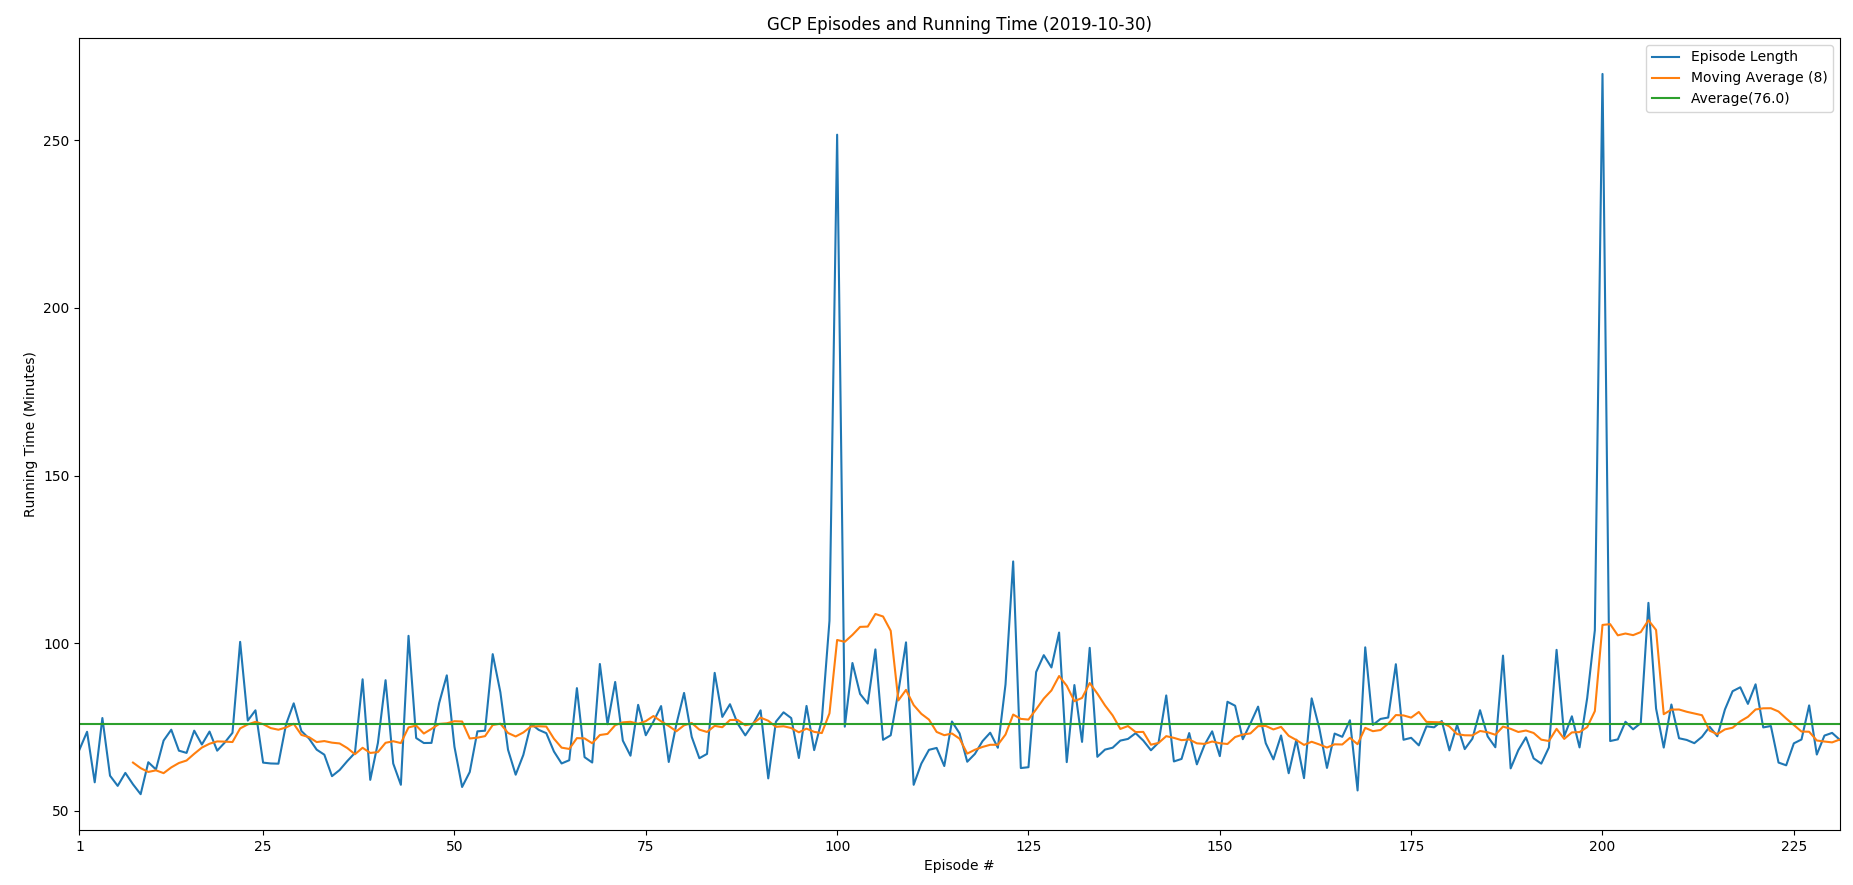
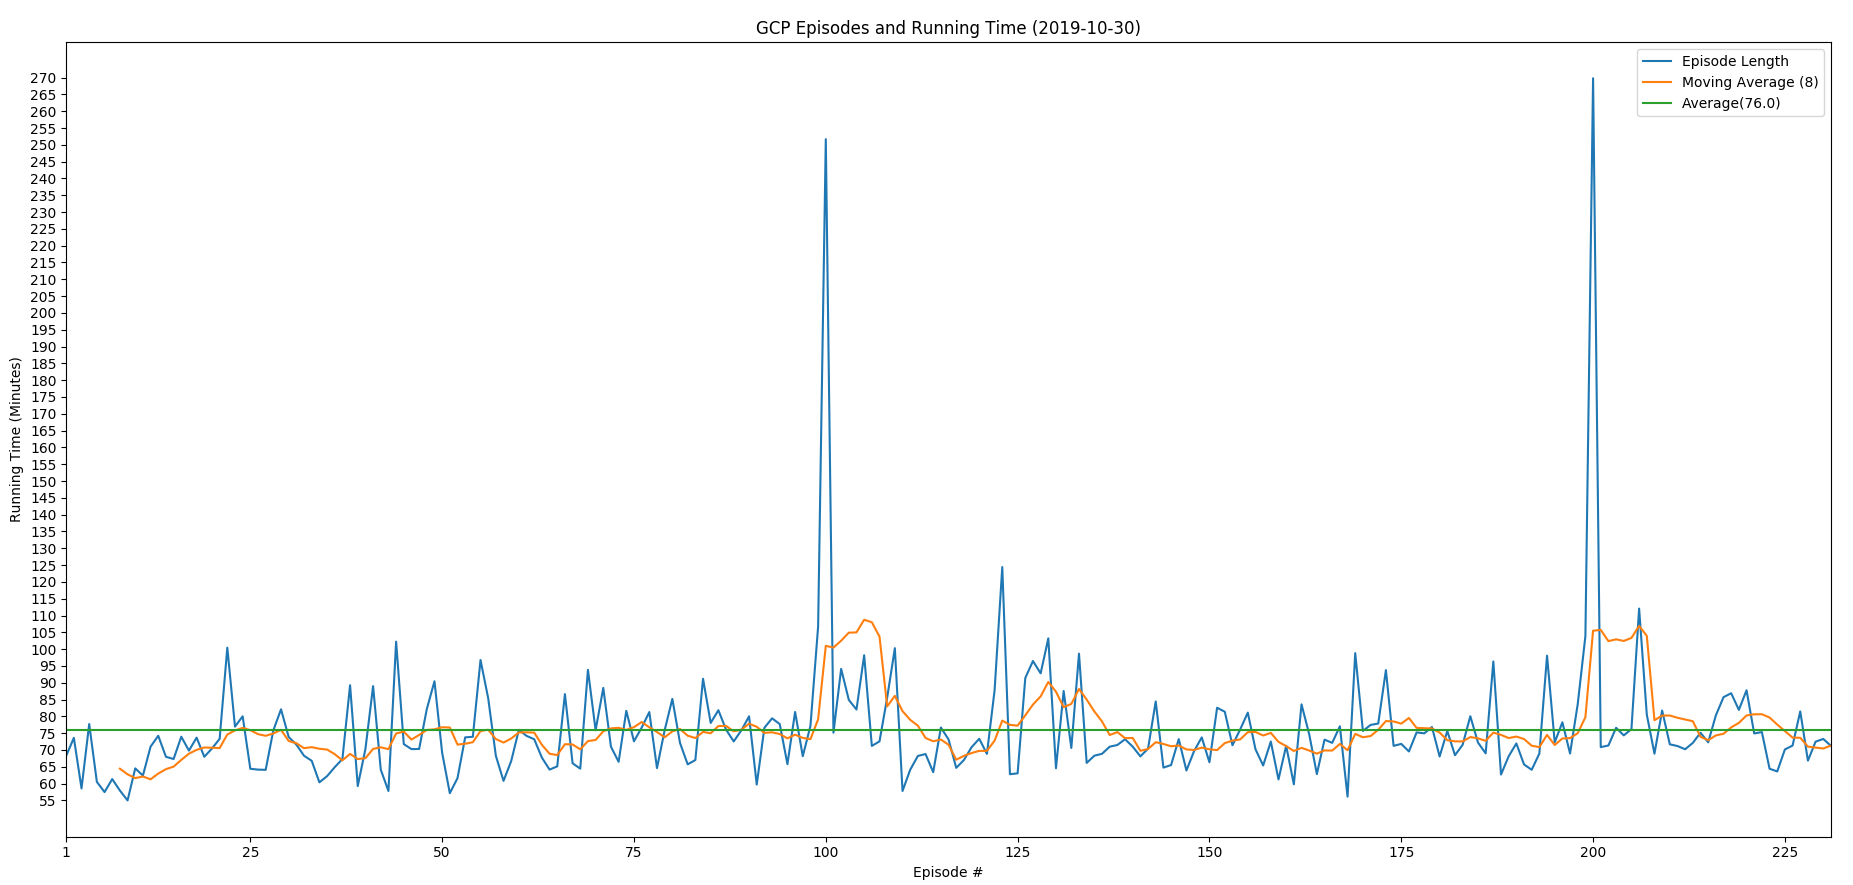
Fixed y-axis ticks, updated example png

diff --git a/scraper.py b/scraper.py
@@ -48,6 +48,8 @@ major_x = (list(range(25, len(times), 25)))
 major_x.insert(0, 1)
 print(major_x)
 
+#
+
 
 # pandas visualization
 data_set = list(zip(names, times))
@@ -66,6 +68,7 @@ lines.set_xlabel("Episode #")
 lines.set_ylabel("Running Time (Minutes)")
 
 plt.xticks(major_x)
+plt.yticks((np.arange(min(times), max(times)+1, 5))) # Want every 5 minutes to be a y-tick
 plt.show() # showing the plot. 
 
 #WIP outputting screenshot with pandas
